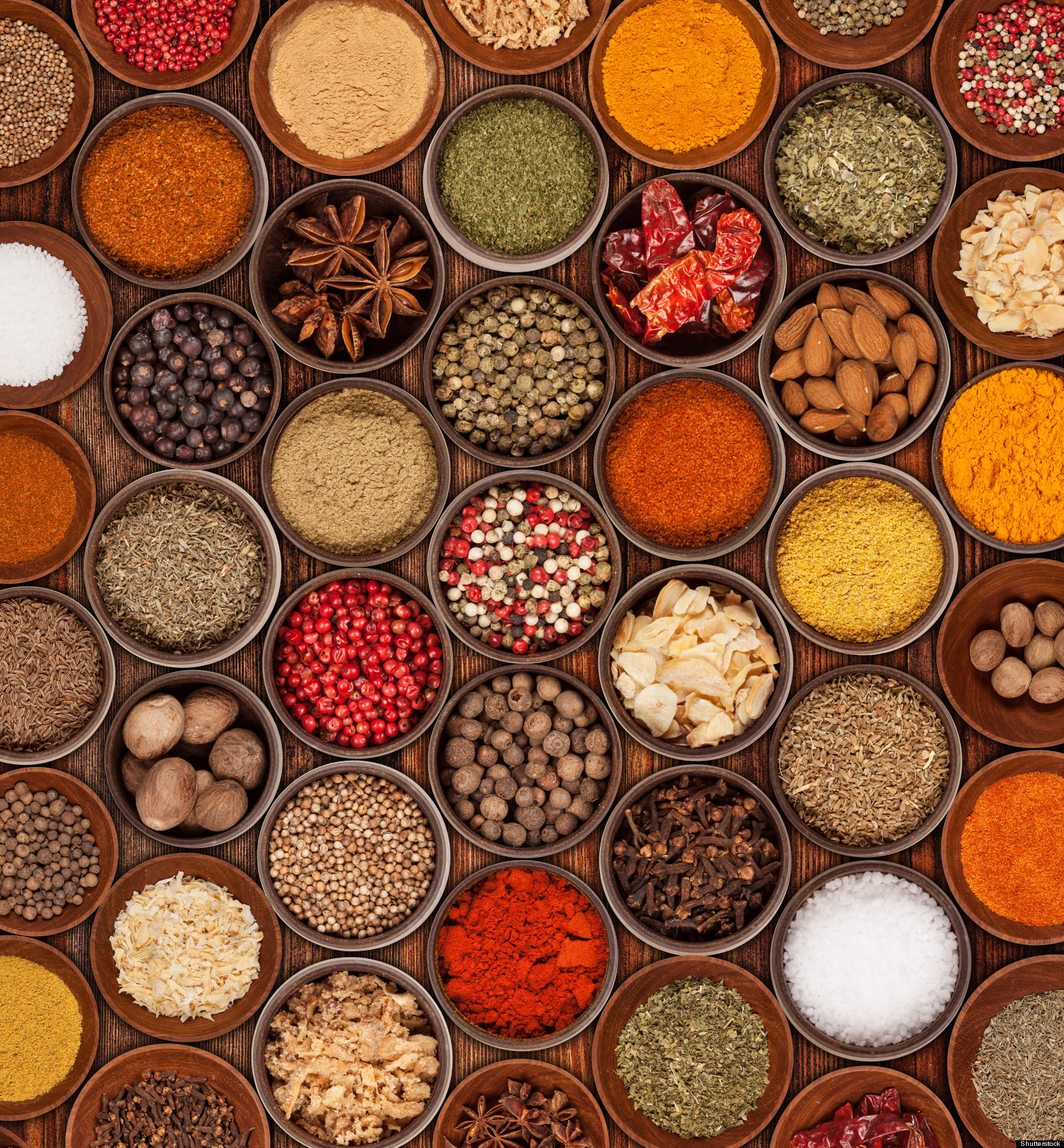
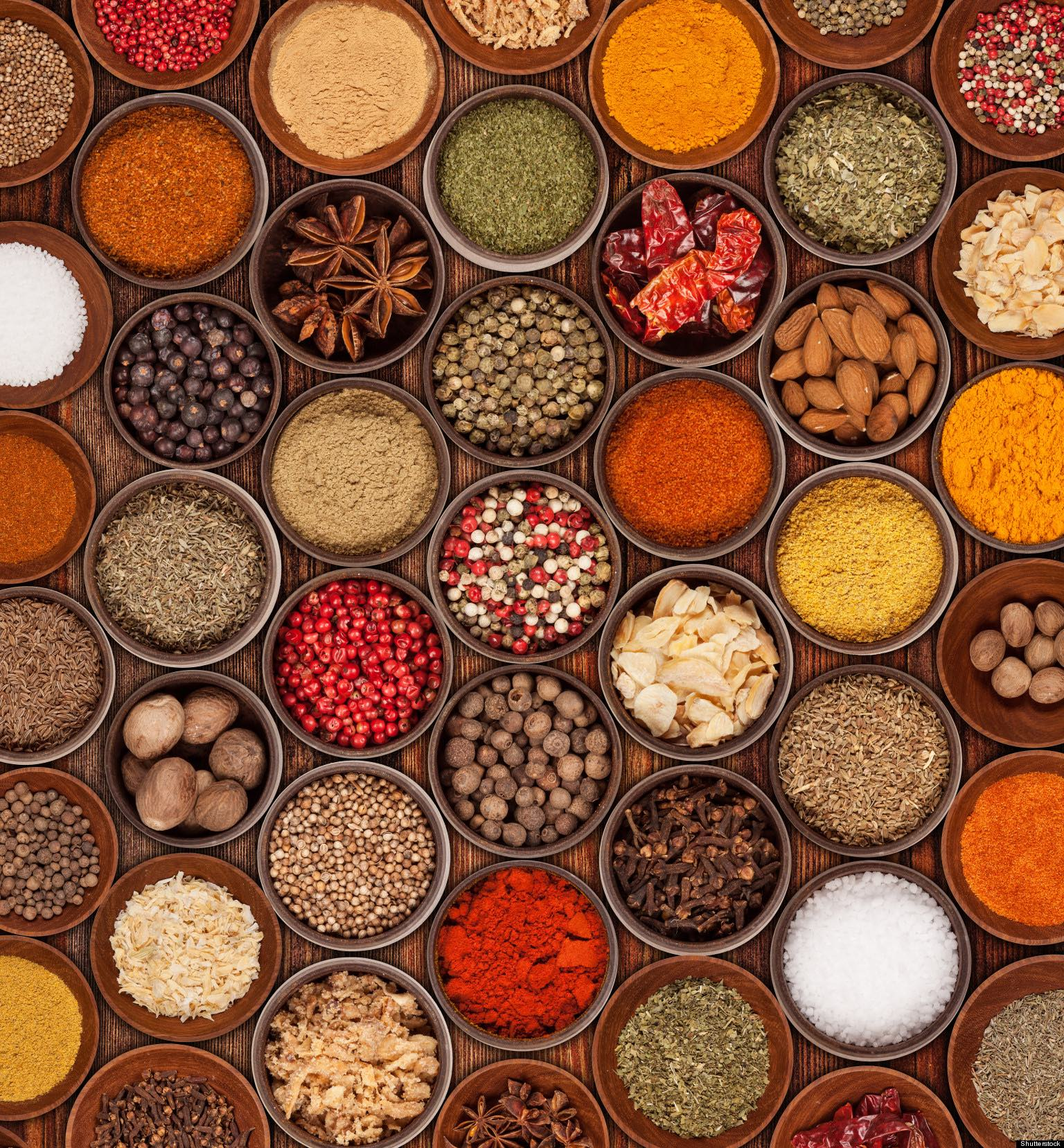
Updated index and compressed pictures.

diff --git a/mesos-plumbing-scheduling-2015/index.html b/mesos-plumbing-scheduling-2015/index.html
@@ -391,9 +391,9 @@ dcos package install cassandra
            </section>
 
             <section data-background="assets/disassembled-bed_[jochemwartena.nl].jpg">
-                <pre><code class="protobuf">
-https://github.com/apache/mesos
-https://github.com/apache/aurora
+                <pre><code class="http">
+github.com/apache/mesos
+github.com/apache/aurora
                 </code></pre>
                 <div style="position: absolute; top: -150px; left: 0px; text-align: right; color">
                     <small>&copy; jochemwartena.nl</small>
@@ -404,8 +404,8 @@ https://github.com/apache/aurora
             </section>
 
             <section data-background="assets/simep-bed_[unepesa].jpg">
-                <pre><code class="protobuf">
-https://open.mesosphere.com/reference/packages
+                <pre><code class="http">
+open.mesosphere.com/reference/packages
                 </code></pre>
                 <div style="position: absolute; top: -150px; left: 0px; text-align: right; color">
                     <small>&copy; unepesa</small>
@@ -416,8 +416,8 @@ https://open.mesosphere.com/reference/packages
             </section>
 
             <section data-background="assets/fancy-bed_[billydsgn.com].jpg">
-                <pre><code class="protobuf">
-https://mesosphere.com/product
+                <pre><code class="http">
+mesosphere.com/product
                 </code></pre>
                 <div style="position: absolute; top: -150px; left: 0px; text-align: right; color">
                     <small>&copy; billydsgn.com</small>
@@ -428,12 +428,12 @@ https://mesosphere.com/product
             </section>
 
             <section data-background="assets/ikea-car_[reddit.com].jpg">
-                <pre><code class="protobuf">
-https://github.com/apache/mesos
-https://github.com/mesosphere/marathon
-https://github.com/mesos/chronos
-https://github.com/twosigma/Cook
-https://github.com/mesosphere/mesos-dns
+                <pre><code class="http">
+github.com/apache/mesos
+github.com/mesosphere/marathon
+github.com/mesos/chronos
+github.com/twosigma/Cook
+github.com/mesosphere/mesos-dns
                 </code></pre>
                 <div style="position: absolute; top: -150px; left: 0px; text-align: right; color">
                     <small>&copy; reddit.com</small>
@@ -444,8 +444,8 @@ https://github.com/mesosphere/mesos-dns
             </section>
 
             <section data-background="assets/delorean_[talkaudio.co.uk].jpg">
-                <pre><code class="protobuf">
-https://mesosphere.com/product
+                <pre><code class="http">
+mesosphere.com/product
                 </code></pre>
                 <div style="position: absolute; top: -150px; left: 0px; text-align: right; color">
                     <small>&copy; talkaudio.co.uk</small>
@@ -459,170 +459,20 @@ https://mesosphere.com/product
 
 
 
-        <!-- Docker support -->
-        <section>
-
-            <section data-background="assets/heliocrystal.jpg">
-                <h2>Containerization and isolation</h2>
-                <ul>
-                    <li> Static application composition
-                    <li> Reliable deployment
-                    <li> Unit of resource isolation
-                    <li> Execution isolation
-                    <li> Multi-tenancy without heavyweight VMs
-                </ul>
-            </section>
-
-            <section data-background="assets/heliocrystal.jpg">
-                <h2>Docker</h2>
-                <ul>
-                    <li> Open source
-                    <li> Configurable layers
-                    <li> Reproducible
-                    <li> Version-controlled
-                    <li> Plenty of other people's containers
-                    <li class="fragment"> First-class citizen in Mesos and the Mesosphere stack
-                    <li class="fragment"> Kubernetes employs and promotes Docker
-                    <li class="fragment roll-in"><i class="fa fa-warning"></i> Security (isolator that does not isolate)
-                    <li class="fragment roll-in"><i class="fa fa-warning"></i> Big images, long fetch time
-                    <li class="fragment roll-in"><i class="fa fa-warning"></i> Vendor lock
-                    <li class="fragment roll-in"><i class="fa fa-warning"></i> Persistent volumes
-                </ul>
-            </section>
-
-            <section data-background="assets/container_Gerard-Julien-AFP.jpg">
-                <div style="background-color: rgba(0, 0, 0, 0.5); color: #fff; padding: 20px;">
-                    <h3>Run everything in containers</h3>
-                </div>
-                <div style="position: absolute; top: -150px; left: 0px; text-align: right">
-                    <small>&copy; Gerard Julien/AFP</small>
-                </div>
-            </section>
-
-            <section data-background="assets/awesome-container-system_[unknown].jpg">
-                <div style="position: absolute; top: -150px; left: 0px; text-align: right">
-                    <small>&copy; Unknown</small>
-                </div>
-            </section>
-
-            <section data-background="assets/awesome-container-scaled_[unknown].jpg">
-                <div style="position: absolute; top: -150px; left: 0px; text-align: right">
-                    <small>&copy; Unknown</small>
-                </div>
-            </section>
-
-            <section data-background="assets/harbour-Aeroview_[ect.nl].jpg">
-                <div style="background-color: rgba(0, 0, 0, 0.5); color: #fff; padding: 20px;">
-                    <h3>Manage containers with Mesos</h3>
-                </div>
-                <div style="position: absolute; top: -150px; left: 0px; text-align: right">
-                    <small>&copy; ect.nl</small>
-                </div>
-            </section>
-
-        </section>
-
-
-
-        <!-- MoM -->
-        <section>
-
-            <section data-background="assets/heliocrystal.jpg">
-                <h2>Mesos on Mesosphere</h2>
-                <img src="assets/mom1.png">
-            </section>
-
-            <section data-background="assets/heliocrystal.jpg">
-                <h2>Mesos on Mesosphere</h2>
-                <img src="assets/mom2.png">
-            </section>
-
-        </section>
-
-
-
-        <!-- DCOS -->
-        <section>
-
-            <section data-background="assets/heliocrystal.jpg">
-                <h2>The Mesosphere stack</h2>
-                <img src="assets/mesosphere-stack.png">
-            </section>
-
-            <section data-background="assets/heliocrystal.jpg">
-                <h2>The DCOS stack</h2>
-                <img src="assets/dcos-stack.png">
-            </section>
-
-            <section data-background="assets/heliocrystal.jpg">
-                <h2>DCOS: Contributions to Mesos</h2>
-                <ul>
-                    <li> Module subsystem (lifecycle, python)
-                    <li> Modules (authenticator, allocator, isolator)
-                    <li> Offer reservation
-                    <li> Security and ACL improvements
-                    <li> etcd alternative
-                </ul>
-            </section>
-
-            <section data-background="assets/heliocrystal.jpg">
-                <h2>DCOS: Mesosphere open source efforts</h2>
-                <ul>
-                    <li> Mesosphere package repo [github://mesosphere/universe]
-                    <li> HDFS on Mesos [github://mesosphere/hdfs]
-                    <li> Cassandra on Mesos [github://mesosphere/cassandra-mesos]
-                    <li> K8s on Mesos [github://mesosphere/kubernetes-mesos]
-                    <li> DNS service discovery [github://mesosphere/mesos-dns]
-                    <li> ... and counting
-                </ul>
-            </section>
-
-        </section>
-
-
-
-        <!-- Stateful frameworks -->
-        <section>
-
-            <section data-background="assets/heliocrystal.jpg">
-                <h2>Stateful frameworks</h2>
-            </section>
-
-        </section>
 
 
 
         <!-- Demo -->
-        <section>
-
-            <section data-background="assets/heliocrystal.jpg">
-                <h2>Demo time!</h2>
-            </section>
-
-            <section data-background="assets/heliocrystal.jpg">
-                <h2>DCOS dashboard</h2>
-                <img src="assets/dcos-dashboardsmall.png">
-            </section>
-
-            <section data-background="assets/heliocrystal.jpg">
-                <h2>DCOS CLI</h2>
-                <pre><code class="protobuf" data-trim>
-dcos package install hdfs
-                </code></pre>
-            </section>
-
+        <section data-background="assets/heliocrystal.jpg">
+            <h2>Demo time!</h2>
+            <iframe class="stretch fragment" width="420" height="315" src="https://www.youtube.com/embed/YwuZVB7PVRs" frameborder="0" allowfullscreen></iframe>
         </section>
 
 
 
-        <!-- Finalization -->
-        <section data-background="assets/heliocrystal.jpg">
-            <h2>Thanks!</h2>
-        </section>
-
-        <!-- Put a HH image here -->
-        <section data-background="assets/heliocrystal.jpg">
-          <h3>Useful links</h3>
+        <!-- Outro -->
+        <section data-background="assets/hamburg_[study-in-hamburg.com].jpg">
+          <h3>Useful Links</h3>
           <table>
           <tr>
             <td colspan="2">
@@ -631,17 +481,27 @@ dcos package install hdfs
           </tr>
           <tr>
             <td colspan="2">
-              <p style="font-size: 20px;">Read about Marathon: <a href="https://github.com/mesosphere/marathon">github.com/mesosphere/marathon</a></p>
+              <p style="font-size: 20px;">MesosCon 2015 talks: <a href="https://www.youtube.com/playlist?list=PLVjgeV_avap2arug3vIz8c6l72rvh9poV">Youtube channel</a></p>
             </td>
           </tr>
           <tr>
             <td colspan="2">
-              <p style="font-size: 20px;">Try out Mesosphere on GCE: <a href="http://google.mesosphere.io">google.mesosphere.io</a></p>
+              <p style="font-size: 20px;">Apache Mesos: <a href="https://mesos.apache.org/">mesos.apache.org/</a></p>
             </td>
           </tr>
           <tr>
             <td colspan="2">
-              <p style="font-size: 20px;">Come work with us: <a href="http://mesosphere.io/jobs">mesosphere.io/jobs</a></p>
+              <p style="font-size: 20px;">Check out Marathon: <a href="https://github.com/mesosphere/marathon">github.com/mesosphere/marathon</a></p>
+            </td>
+          </tr>
+          <tr>
+            <td colspan="2">
+              <p style="font-size: 20px;">Try out DCOS: <a href="http://mesosphere.com/product">mesosphere.com/product</a></p>
+            </td>
+          </tr>
+          <tr>
+            <td colspan="2">
+              <p style="font-size: 20px;">Come work with us: <a href="http://mesosphere.com/careers">mesosphere.com/careers</a></p>
             </td>
           </tr>
           </table>

diff --git a/index.html b/index.html
@@ -14,6 +14,7 @@
 <li><a href='hackers-at-berkeley-2015'>hackers-at-berkeley-2015</a>
 <li><a href='index.html'>index.html</a>
 <li><a href='mesos-nutshell-2015'>mesos-nutshell-2015</a>
+<li><a href='mesos-plumbing-scheduling-2015'>mesos-plumbing-scheduling-2015</a>
 <li><a href='mesoscon-2014'>mesoscon-2014</a>
 <li><a href='mesoscon-2015/frameworks-tutorial'>mesoscon-2015/frameworks-tutorial</a>
 <li><a href='mesoscon-2015/security'>mesoscon-2015/security</a>
